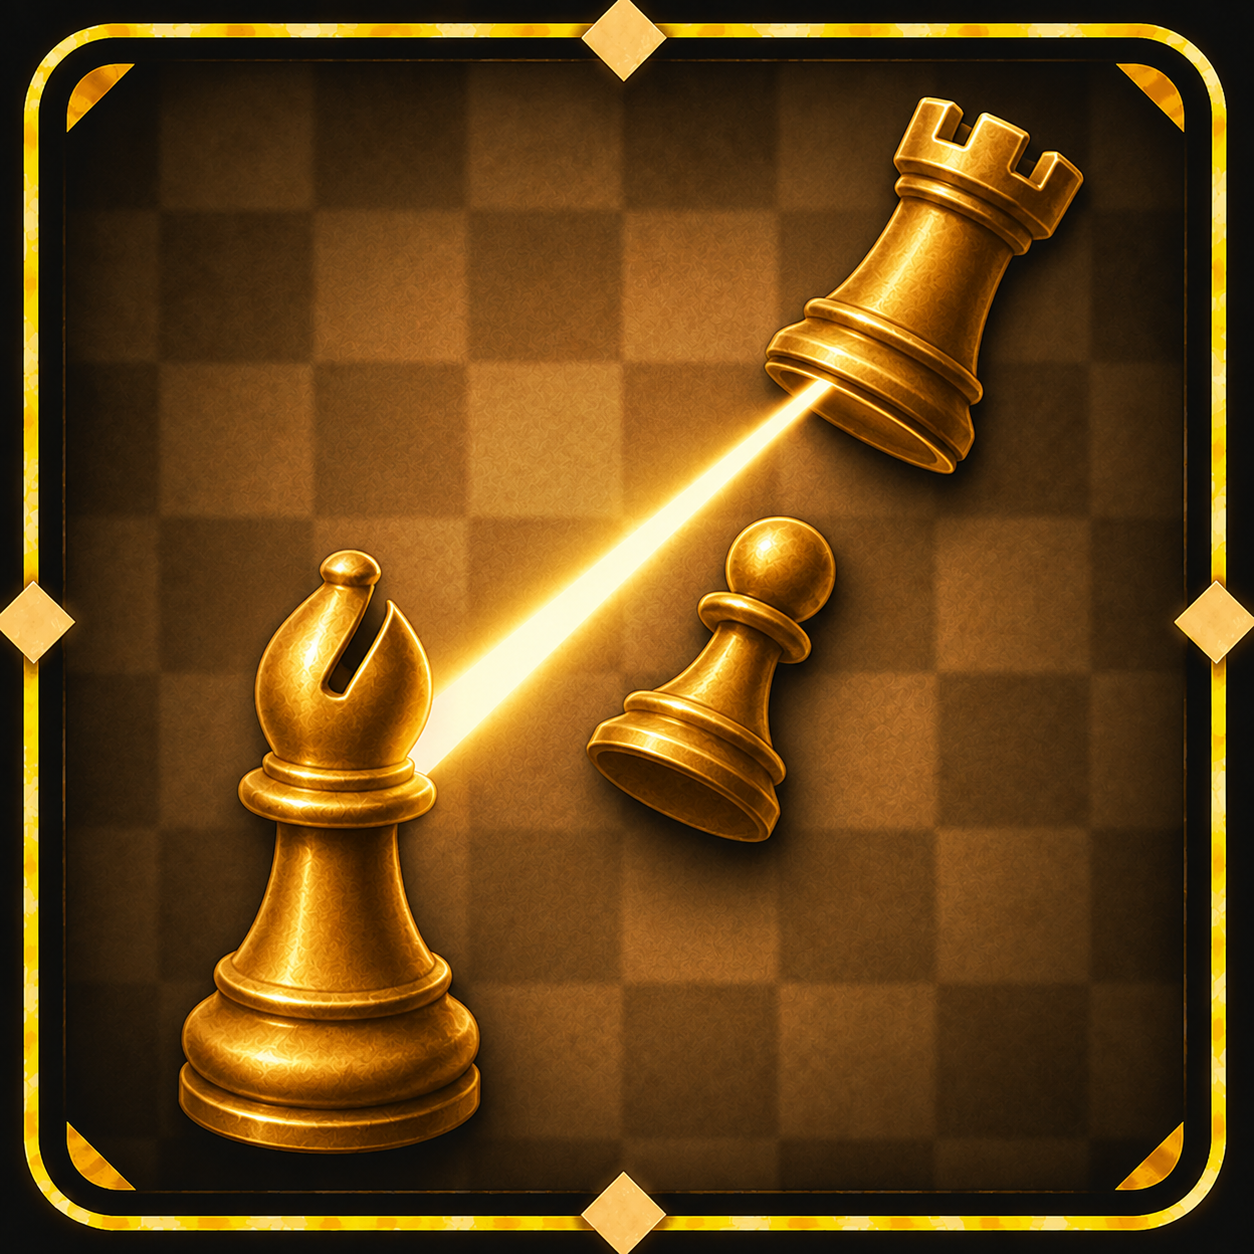
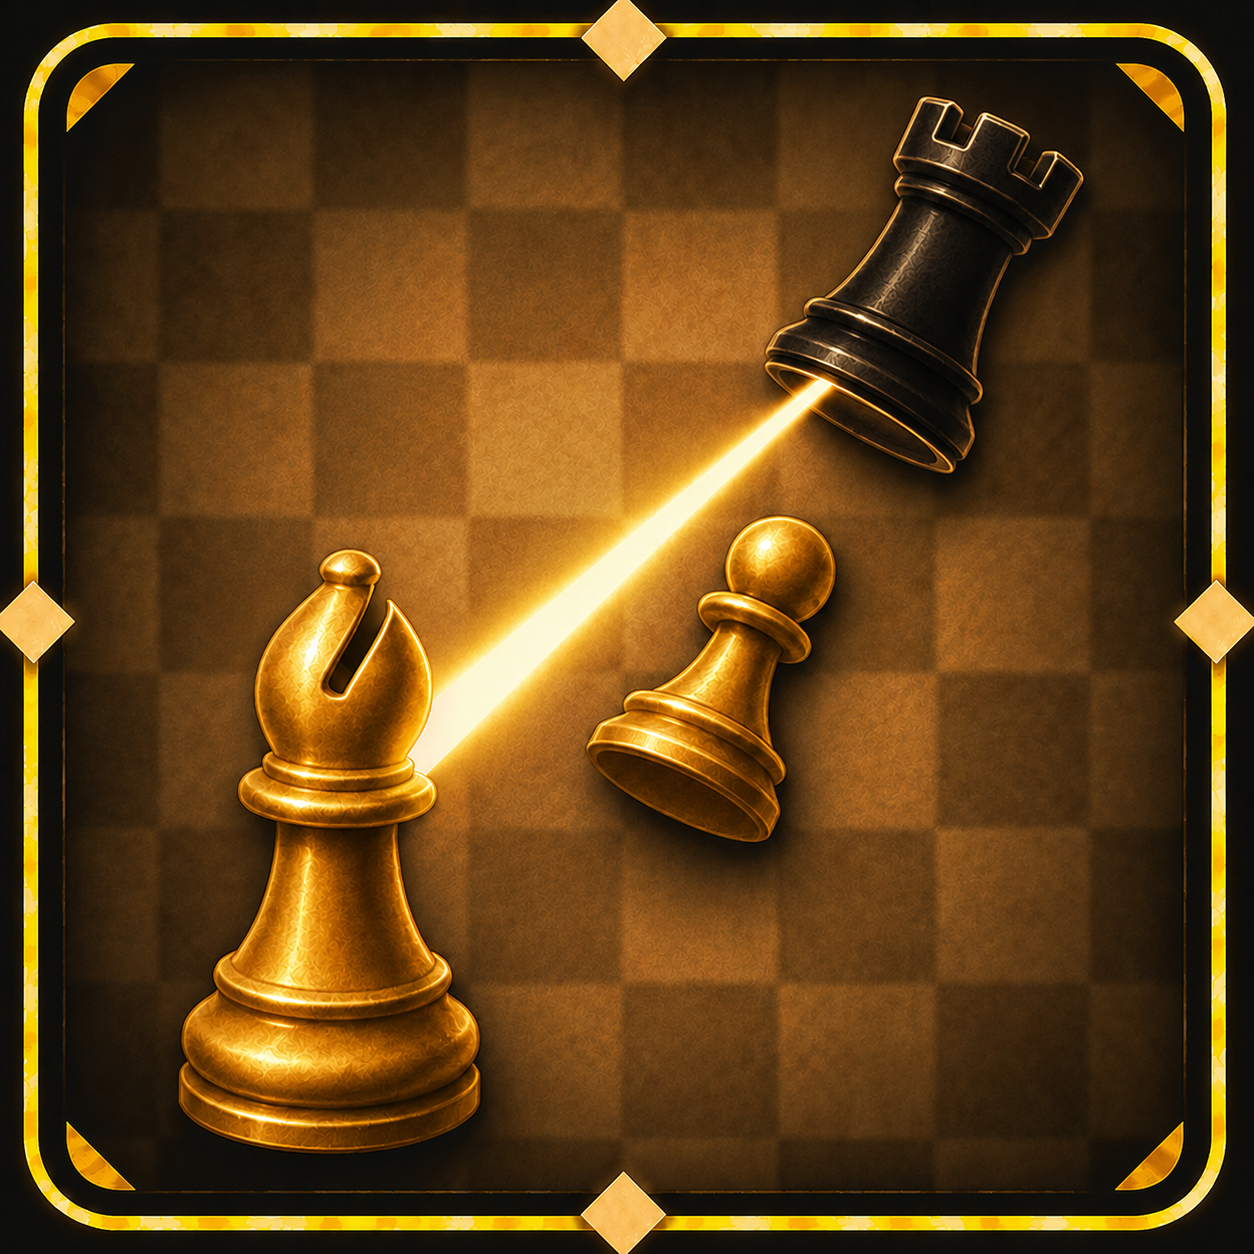
aurul pieselor deschise: paleta cerea fildeş, nu metal
La Furculiţă şi Sacrificii piesele albe au ieşit crem mat. Măsurat faţă de
„Atac prin descoperire", unde a ieşit bine: saturaţie 0,27–0,50 în loc de
0,73–0,99, iar umbra cea mai închisă la #EFC978 în loc de #8C4A01.

Vina e a paletei pe care o scrisesem eu — cerea #FFF0C0 / #E4C071 / #A07C30,
adică exact fildeş. Corectată acum cu valorile măsurate din imaginea reuşită.

Şi o observaţie care contează mai mult decât culoarea: problema nu era doar că
sunt prea albe, ci că UMBRELE rămâneau tot deschise. Fără interval tonal, metalul
arată ca plasticul. De aceea promptul insistă pe adâncimea umbrelor, nu pe nuanţă.

Promptul de corecţie cere ataşate DOUĂ imagini: cea de reparat şi cea reuşită.
Aşa „aur cald" nu mai e o descriere, ci un exemplu de copiat.

diff --git a/docs/prompturi-imagini/01-furculita.md b/docs/prompturi-imagini/01-furculita.md
@@ -3,66 +3,75 @@
 **Metafora:** o furculiță de masă, cu două piese de șah prinse în dinții ei.
 O furculiță, două prăzi — exact ce înseamnă tactica.
 
-> **Starea:** imaginea există, dar a fost generată înainte de
-> [codul culorilor](README.md#codul-culorilor-alb-și-negru) — totul e din același
-> aur. Se corectează cu promptul de mai jos, nu se generează din nou.
+> **Starea:** furculița e deja neagră, cum trebuie. Rămâne de corectat **tenta
+> pieselor albe**: au ieșit crem mat, în loc de aurul cald al seriei.
 
 ---
 
-## Corecție — culorile
+## Corecție — aurul pieselor deschise
 
-Furculița devine **neagră**, cele două piese prinse în ea rămân **deschise**.
-Adică: negrul prinde turnul și dama albului.
+Turnul și dama au ieșit **fildeș**, nu aur. Diferența e măsurabilă, comparând cu
+`Atac prin descoperire.png`, unde a ieșit cum trebuie:
 
-### Dacă vrei invers
+| | saturație | umbra cea mai închisă |
+| --- | --- | --- |
+| Atac prin descoperire | **0,73–0,99** | `#8C4A01` |
+| Furculiță, acum | 0,27–0,50 | `#EFC978` |
 
-În seria de până acum, „noi" suntem albul — la *Sacrificii*, dama care se dă e
-albă, regele advers e negru. Ca să rămână așa și aici, furculița ar trebui să fie
-**deschisă** și cele două prăzi **negre**.
+Problema nu e doar că sunt prea albe. E că **umbrele rămân tot deschise** — fără
+interval tonal, metalul arată ca plasticul. Aurul are nevoie de contrast mare
+între lumină și umbră ca să pară metal.
 
-E o singură propoziție de schimbat în prompt: interschimbă cele două paragrafe
-care încep cu `THE FORK ITSELF` și `THE TWO CAPTURED PIECES`. Nimic altceva.
+Vina e a paletei pe care o scrisesem eu: cerea `#FFF0C0 / #E4C071 / #A07C30`,
+adică exact fildeș. ChatGPT a ascultat-o cuminte.
 
-**Atașează la mesaj:** poza actuală, [`furculita.png`](../../surse-imagini/tactici/furculita.png).
+**Atașează la mesaj DOUĂ imagini:**
+1. [`furculita.png`](../../surse-imagini/tactici/furculita.png) — cea de corectat;
+2. [`Atac prin descoperire.png`](../../surse-imagini/tactici/Atac%20prin%20descoperire.png)
+   — modelul de aur.
+
+Cu a doua atașată, „aurul cald" nu mai e o descriere, ci un exemplu de copiat.
 
 ```text
-Here is an image you made earlier. Change one thing only: the metal the fork is made of. Everything else in the picture must stay exactly as it is.
+Here are two images you made earlier. The first is the fork tile, which needs one correction. The second is the discovered-attack tile, which is the correct look — use its metal as the model.
 
-DO NOT CHANGE, in any way:
+In the FIRST image, the two light chess pieces — the rook on the left tine and the queen on the right tine — came out the wrong material. They are pale matte cream, almost ivory. They should be RICH WARM GOLD, exactly like the bishop and the pawn in the SECOND image.
+
+Recolour those two pieces so that their metal matches the light pieces in the second image:
+- lit surfaces around #FFD86A rising to #FCCB43 on the brightest edges;
+- mid-tones around #E7AD3E;
+- shadowed sides going deep, down to #8C4A01 and #5A340A in the darkest folds.
+
+THE RANGE IS THE POINT. The problem now is not only that they are too pale, it is that their shadows are almost as light as their highlights, which makes them look like matte plastic. Real gold needs a wide gap between light and dark: bright, almost white-hot highlights on the edges facing the light, and deep warm brown shadows underneath the collars, inside the crown and along the shaded side of each piece. Give them strong specular highlights and clear reflected warmth, exactly as the bishop in the second image has.
+
+DO NOT CHANGE ANYTHING ELSE:
+- the dark, near-black fork stays exactly as it is — same metal, same colour, same thin gold rim light;
 - the ornamental gold frame, its corner pieces and its four diamonds;
-- the brown chessboard background, its pattern, and the warm glow behind the subject;
-- the composition: the position, size, angle and shape of the fork and of the two chess pieces on its outer tines;
-- the lighting direction, the highlights, the shadows and the drop shadow;
+- the brown chessboard background, its pattern and the warm glow behind the subject;
+- the composition: the position, size, angle and shape of the fork, the rook and the queen;
+- the lighting direction and the drop shadow;
 - the square format and the framing.
 
-This is a recolour of the existing image, not a new illustration. If anything moves, resizes or changes shape, it is wrong.
+This is a recolour of two objects in an existing image, not a new illustration. If anything moves, resizes or changes shape, it is wrong.
 
-THE FORK ITSELF — its handle, its neck and all four of its tines — becomes DARK: a near-black bronze, with highlight #4A3A1C, mid-tone #241A0A and deep shadow #0E0A04. Keep a thin warm gold rim light along its edges so that its silhouette stays crisp against the brown board behind it. It must read instantly as a black chess piece would on a real board — clearly the dark side.
-
-THE TWO CAPTURED PIECES — the rook on the left tine and the queen on the right tine — stay PALE and BRIGHT, as the light side: highlight #FFF0C0, mid-tone #E4C071, shadow #A07C30. They keep exactly the shapes and positions they already have.
-
-Where each piece meets the tine it sits on, the change of metal should be a clean, definite break — dark below, pale above — not a gradient or a fade between the two.
-
-The contrast between the dark fork and the two pale pieces must be strong and immediate: a viewer must never wonder which side is which.
+Keep the clean, definite break where each piece meets the tine it sits on: dark fork below, gold piece above, no gradient between them.
 
 Keep the same square size, at least 1024x1024.
 ```
 
 ---
 
-**Salvează ca:** `fork.png`, peste cea de acum.
+**Salvează ca:** peste poza actuală.
 
 **Verificare**
 
-1. **Compoziția e neatinsă?** Pune-le una lângă alta. Furculița și piesele
-   trebuie să fie în exact aceleași locuri, la aceeași mărime. Dacă s-a mișcat
-   ceva, cere din nou: *„this is a recolour only, do not move or redraw
-   anything"*.
-2. **Rama și fundalul sunt identice?** Alea nu au voie să se schimbe deloc.
-3. **Se vede net unde se termină negrul?** Trecerea de la dinte la piesă
-   trebuie să fie tăiată clar, nu topită.
-4. **Contrastul e puternic?** Furculița trebuie citită ca „piesă neagră", nu ca
-   aur mai închis.
+1. **Pune-le una lângă alta cu `Atac prin descoperire.png`.** Piesele deschise
+   trebuie să pară din același metal. Dacă cele de la furculiță sunt mai palide,
+   cere: *„make them richer and deeper, match the bishop in the second image"*.
+2. **Au umbre adânci?** Sub gulere, în interiorul coroanei, pe partea ferită de
+   lumină. Fără ele rămân plate, oricât de aurii ar fi la culoare.
+3. **Furculița a rămas neagră**, neschimbată.
+4. **Compoziția e neatinsă?** Nimic nu s-a mutat, nimic nu și-a schimbat mărimea.
 
 ---
 

diff --git a/docs/prompturi-imagini/README.md b/docs/prompturi-imagini/README.md
@@ -51,13 +51,24 @@ simple, iar textul ăla e deja aprobat.
 **Piesele nu sunt toate aurii.** Albele sunt aurii-deschis, negrele sunt închise
 — exact ca pe o tablă adevărată.
 
-| | lumină | ton mediu | umbră |
-| --- | --- | --- | --- |
-| Piese **albe** | `#FFF0C0` | `#E4C071` | `#A07C30` |
-| Piese **negre** | `#4A3A1C` | `#241A0A` | `#0E0A04` |
+| | lumină | ton mediu | umbră | umbră adâncă |
+| --- | --- | --- | --- | --- |
+| Piese **albe** | `#FFD86A` | `#E7AD3E` | `#8C4A01` | `#5A340A` |
+| Piese **negre** | `#4A3A1C` | `#241A0A` | `#0E0A04` | — |
 
 Negrele primesc în plus un contur subțire de lumină caldă pe muchii, ca silueta
 lor să rămână limpede pe tabla maro.
+
+**„Alb" înseamnă aur cald, nu fildeș.** Piesele deschise păstrează aurul bogat al
+seriei — se schimbă doar raportul cu cele negre, nu materialul. Valorile de mai
+sus sunt măsurate din `Atac prin descoperire.png`, unde a ieșit cum trebuie.
+
+Prima paletă pe care am scris-o cerea `#FFF0C0` / `#E4C071` / `#A07C30`, iar
+ChatGPT a ascultat-o cuminte: la *Furculiță* și *Sacrificii* piesele au ieșit
+crem mat, cu saturația la 0,27–0,50 în loc de 0,73–0,99. Problema nu era doar
+că sunt prea albe, ci că **umbrele rămâneau tot deschise** — fără interval tonal,
+metalul arată ca plasticul. De aceea coloana „umbră adâncă" contează cel mai
+mult din tabel.
 
 Motivul nu e estetic: **în șah, culoarea piesei e informație.** Cine atacă, cine
 suferă, a cui e piesa care cade. Totul-auriu pierde tocmai asta. La „Sacrificii"
